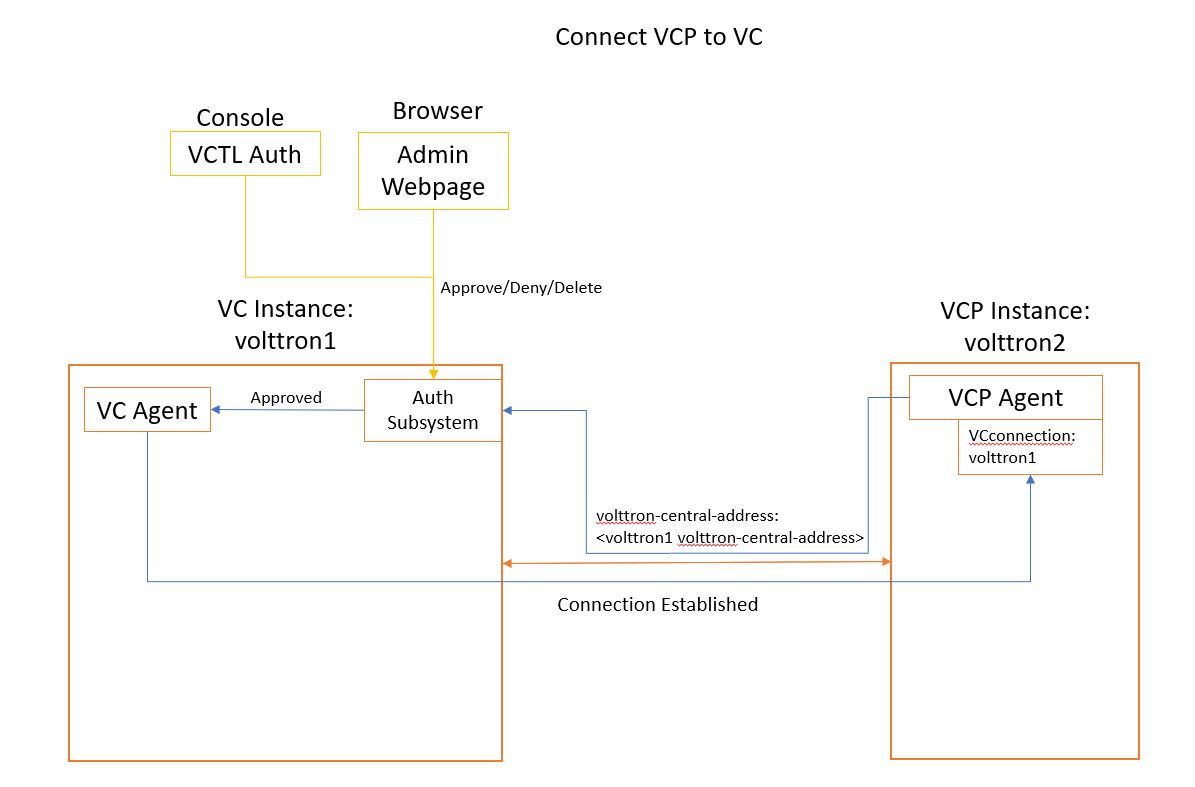
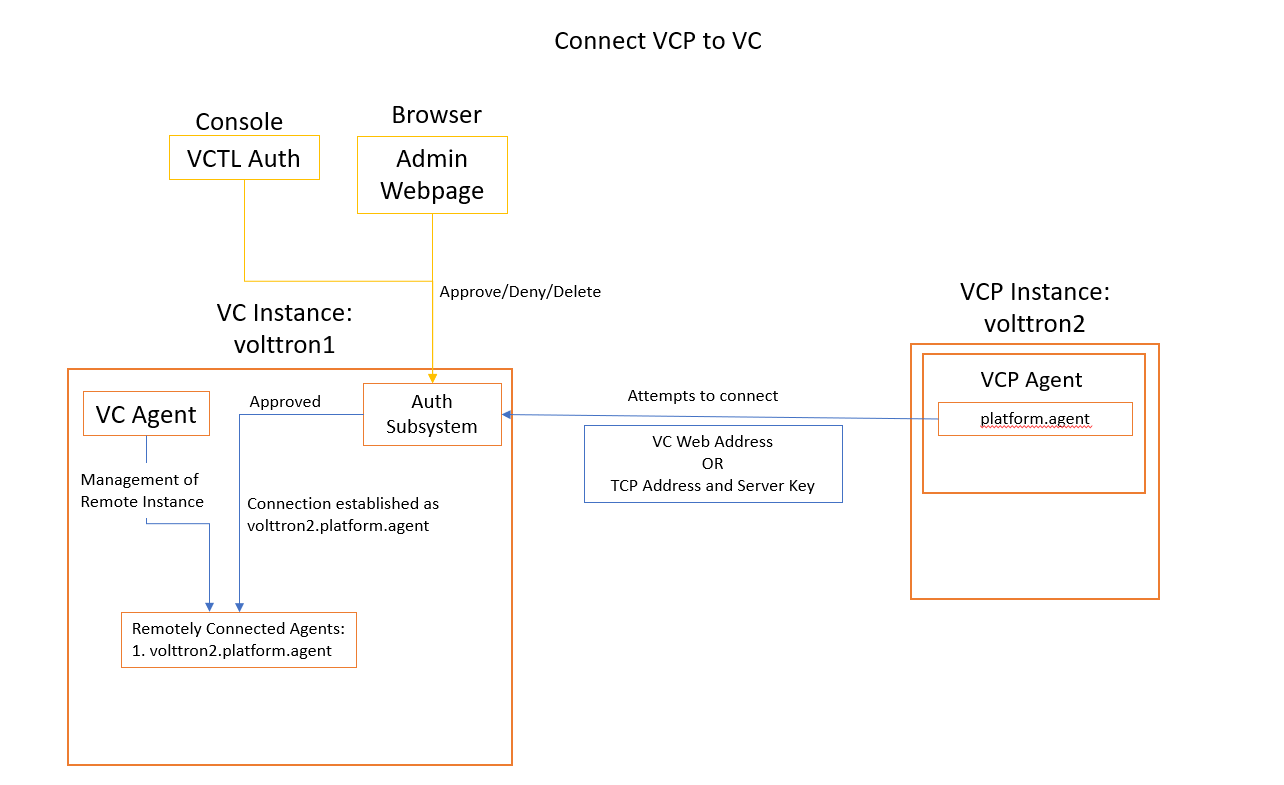
Updated diagrams and removed rpc connection diagram.

diff --git a/docs/source/agent-framework/core-service-agents/volttron-central/webservice-api.rst b/docs/source/agent-framework/core-service-agents/volttron-central/webservice-api.rst
@@ -23,7 +23,6 @@ How the API is Implemented
 * All calls are made through a POST to `/vc/jsonrpc`
 * All calls (not including the call to authenticate) will include an authorization token (a json-rpc extension).
 
-|Route-RPC|
 
 JSON-RPC Request Payload
 ------------------------
@@ -481,4 +480,3 @@ Remove An Agent
 
 
 
-.. |Route-RPC| image:: files/rpc_call_vc_vcp.png
